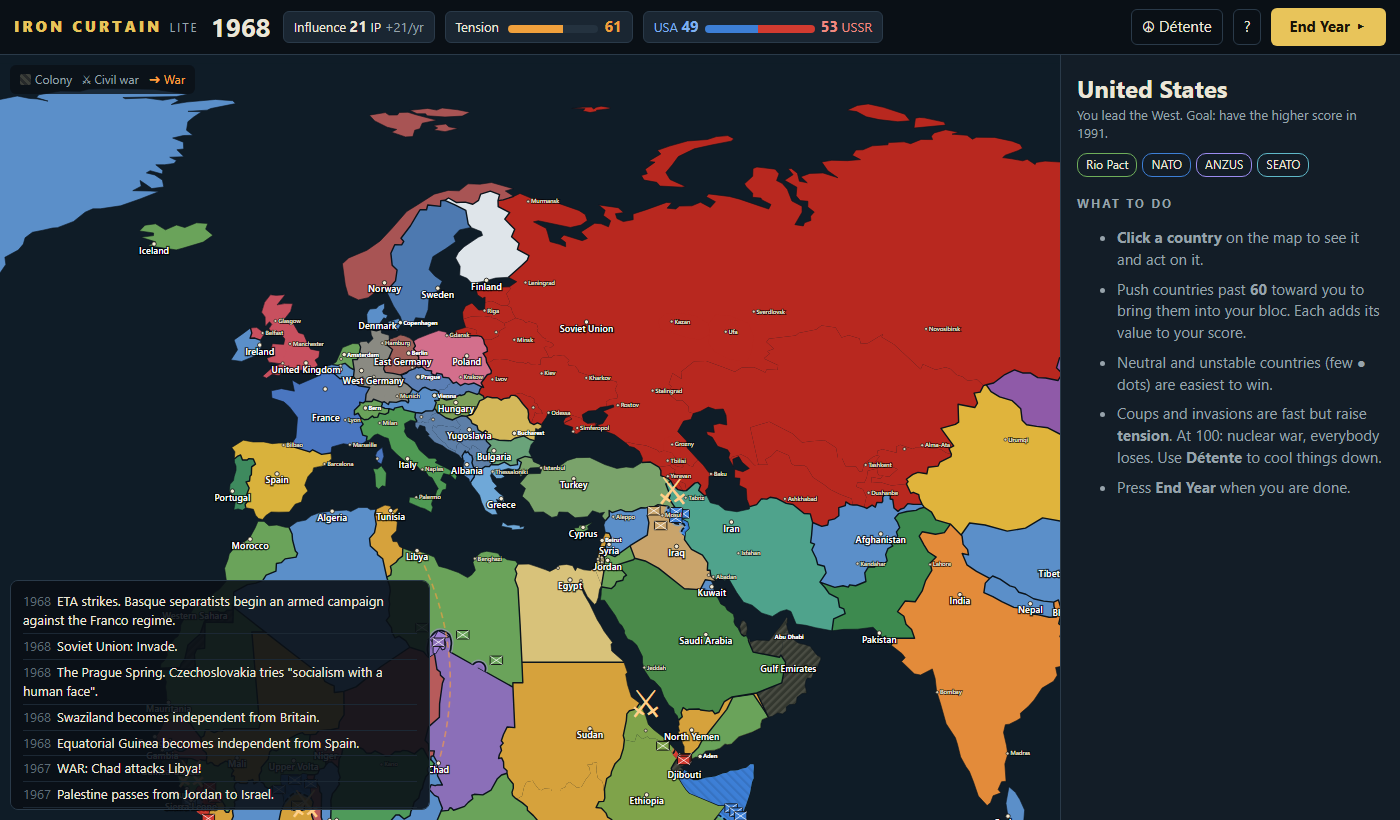
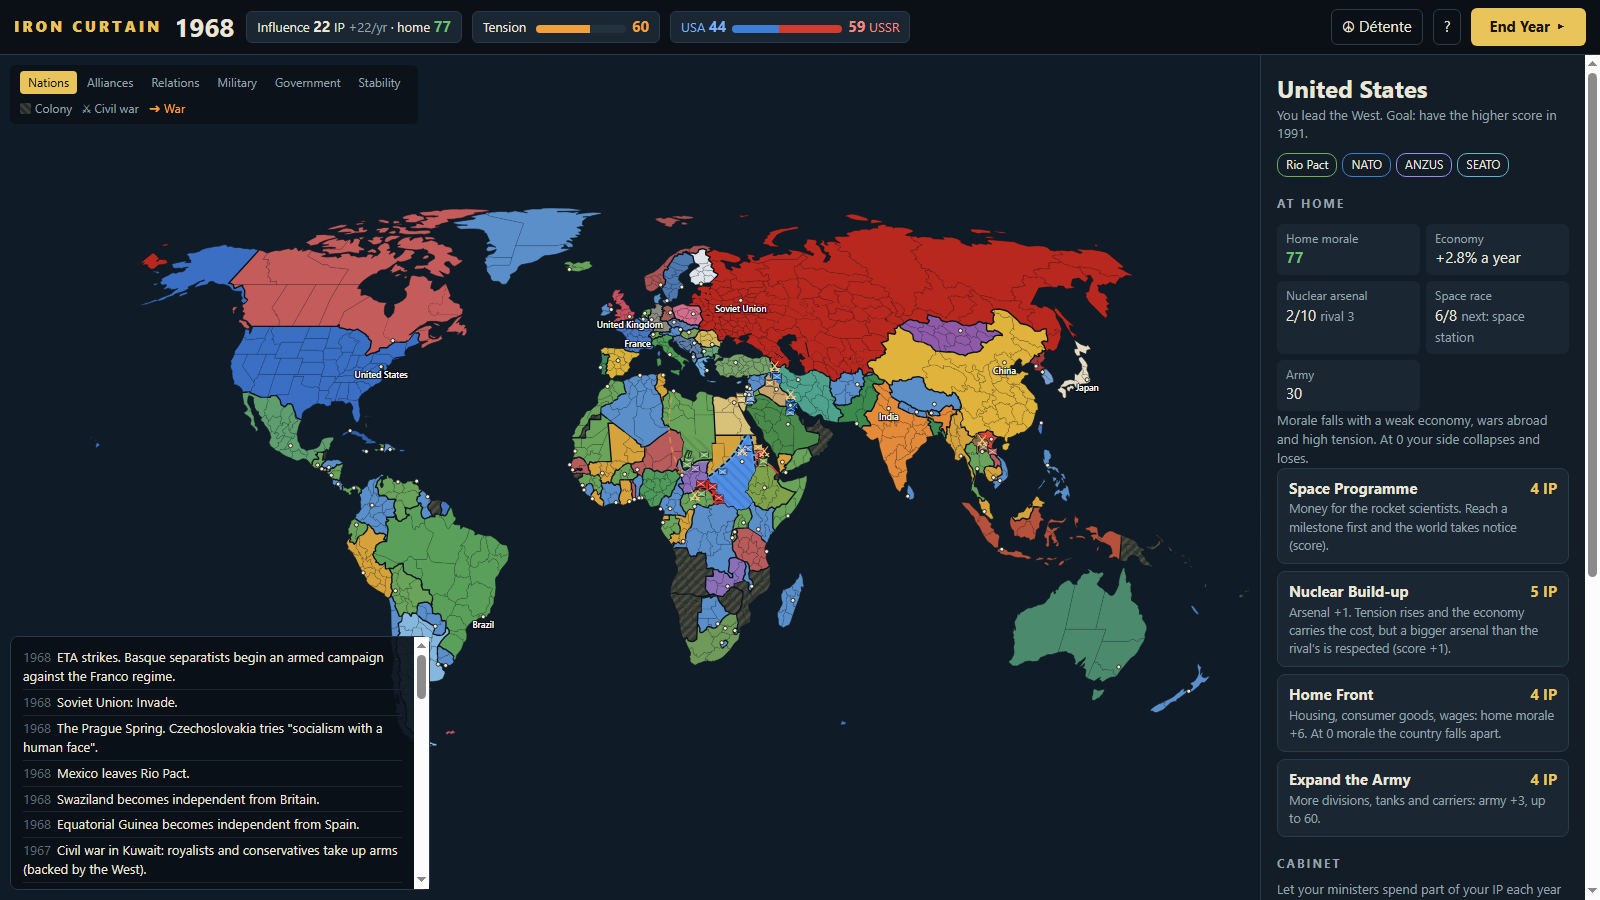
One game: Iron Curtain (no longer 'Lite'); README describes provinces, home front, map modes, causes, cabinet, unions, peace offers; new screenshot

diff --git a/ui.js b/ui.js
@@ -1,4 +1,4 @@
-// Iron Curtain Lite - the screen: map, side panel, pop-ups.
+// Iron Curtain - the screen: map, side panel, pop-ups.
 (function () {
   const D = window.DATA, GAME = window.GAME, NEIGHBOURS = window.NEIGHBOURS || {};
   const SAVE = 'iron-curtain-lite-3';
@@ -897,7 +897,7 @@
     const captives = D.COUNTRIES.filter(d => d.union && !d.indep);
     const regions = ['EU', 'ME', 'AS', 'AF', 'LA'];
     const lean = a => a >= 25 ? 'var(--us)' : a <= -25 ? 'var(--su)' : 'var(--neutral)';
-    modal(`<div class="kicker">1947 – 1991</div><h1>Iron Curtain Lite</h1>
+    modal(`<div class="kicker">1947 – 1991</div><h1>Iron Curtain</h1>
       <p>The Second World War is over and two superpowers divide the world. Lead one of them, or any nation caught in between.</p>
       <div class="sides">
         <button class="choice" data-side="US"><b style="color:#2f6bc4">Play the United States</b><span>Lead the West: democracy and dollars.</span></button>

diff --git a/index.html b/index.html
@@ -3,12 +3,12 @@
 <head>
 <meta charset="utf-8">
 <meta name="viewport" content="width=device-width, initial-scale=1">
-<title>Iron Curtain Lite</title>
+<title>Iron Curtain</title>
 <link rel="stylesheet" href="style.css">
 </head>
 <body>
 <header>
-  <div class="brand">IRON CURTAIN <span>LITE</span></div>
+  <div class="brand">IRON CURTAIN</div>
   <div class="year" id="year">1947</div>
   <div class="chip" id="ip" title="Influence Points: spend them on countries. You get more each year."></div>
   <div class="chip" id="tension" title="World tension. If it reaches 100, nuclear war ends the game for everyone."></div>

diff --git a/tools/clicktest.html b/tools/clicktest.html
@@ -9,7 +9,7 @@
 </head>
 <body>
 <header>
-  <div class="brand">IRON CURTAIN <span>LITE</span></div>
+  <div class="brand">IRON CURTAIN</div>
   <div class="year" id="year">1947</div>
   <div class="chip" id="ip" title="Influence Points: spend them on countries. You get more each year."></div>
   <div class="chip" id="tension" title="World tension. If it reaches 100, nuclear war ends the game for everyone."></div>

diff --git a/tools/test.html b/tools/test.html
@@ -8,7 +8,7 @@
 </head>
 <body>
 <header>
-  <div class="brand">IRON CURTAIN <span>LITE</span></div>
+  <div class="brand">IRON CURTAIN</div>
   <div class="year" id="year">1947</div>
   <div class="chip" id="ip" title="Influence Points: spend them on countries. You get more each year."></div>
   <div class="chip" id="tension" title="World tension. If it reaches 100, nuclear war ends the game for everyone."></div>

diff --git a/game.js b/game.js
@@ -1,4 +1,4 @@
-// Iron Curtain Lite - the rules of the game. No drawing here, so it also runs in Node for testing.
+// Iron Curtain - the rules of the game. No drawing here, so it also runs in Node for testing.
 //
 // Who plays: the player is either a superpower ('US' or 'SU') or any other nation ('ME').
 // A superpower wins by having more countries in its bloc than the rival in 1991.

diff --git a/README.md b/README.md
@@ -1,10 +1,10 @@
-# Iron Curtain Lite
+# Iron Curtain
 
-A small, free Cold War strategy game that runs in your browser. Lead the **United States**, the **Soviet Union** or any nation in between from 1947 to 1991, and come through the Cold War without starting a nuclear war. When the Cold War is judged at the end of 1991 you can keep playing into the new century.
+A free Cold War strategy game that runs in your browser. Lead the **United States**, the **Soviet Union** or any nation in between from 1947 to 1991, and come through the Cold War without starting a nuclear war. When the Cold War is judged at the end of 1991 you can keep playing into the new century.
 
 ### [▶ Play it in your browser](https://yelowwc.github.io/iron-curtain/)
 
-![Iron Curtain Lite in 1968](screenshot.png)
+![Iron Curtain in 1968](screenshot.png)
 
 ## Play
 **Online:** https://yelowwc.github.io/iron-curtain/
@@ -12,39 +12,43 @@ A small, free Cold War strategy game that runs in your browser. Lead the **Unite
 **Offline:** download or clone this repository and open `index.html` in any modern browser. No installation, no internet needed.
 
 ## How to play
-- **Choose who you lead:** the **United States**, the **Soviet Union**, or any of the 75 or so nations that are independent in 1947.
+- **Choose who you lead:** the **United States**, the **Soviet Union**, any of the 75 or so nations that are independent in 1947, or a nation still **inside a union** (Ukraine, the Baltic states, Scotland, Catalonia, Quebec...): build a national movement, arm a secret militia and choose the moment to declare independence. Rise too early and the centre crushes you.
 - **Regions and unions:** the Soviet Union is made of its republics (Ukraine, the Baltic states, Georgia, Kazakhstan...), Yugoslavia and Czechoslovakia of theirs, and many countries hold regions that want more say: Scotland, Northern Ireland, Catalonia, the Basque Country, Quebec, Kurdistan, Eritrea, East Pakistan, Tibet... Regions can rise up and win their freedom, and unions can break apart (if the Soviet Union is weak at the end, it is dissolved and Russia remains).
 - **Divided nations:** East and West Germany, North and South Vietnam, North and South Yemen and others can unite, through history or when both halves think alike.
 - **Each year** you get Influence Points (IP). Click a country on the map and spend them, then press **End Year** (or Enter).
 - **The map:** scroll to zoom and drag to move. Click a country to select all of it, including land it has annexed; double-click to select just one region and zoom onto it. Esc clears the selection.
 - **As a superpower**, push countries past 60 toward you to bring them into your bloc. When 1991 ends, the bigger bloc wins. **Propaganda** (1 IP), **Economic Aid** (3 IP) and **Back a Coup** (5 IP) pull countries your way.
+- **At home** (superpowers): the **space race** (be first to the satellite, man in orbit, the Moon...), the **arms race**, **home morale** and the **economy**. Soviet growth slows over the decades; wars abroad and a weak economy wear morale down, and at 0 your side collapses. Programmes: Space Programme, Nuclear Build-up, Home Front, Expand the Army.
+- **Cabinet:** let your ministers spend part of your IP each year (choose how much and what to focus on).
 - **As a nation**, you get decisions of your own: Nehru's choice for India, the Suez Canal for Egypt, Nagy's choice for Hungary, Solidarity for Poland, the Bomb, the oil embargo, the debt crisis, joining the EU... Run your country: stabilise it, develop the economy, build the army, choose your foreign policy (West, East or non-aligned), join or leave alliances, make friends, and maybe invade a neighbour. If you are overthrown or conquered, the game is over.
 - **Governments and parties:** every country has a government and five parties (Communists, Socialists, Liberals, Conservatives, Nationalists). Democracies hold elections; in dictatorships a strong opposition may rise up. Governments also change by themselves: kings fall, generals seize power, dictatorships return to democracy. Back a party with **+**, and in your own country hand power to a party with **⚑**.
 - **Armies and wars:** every country has an army. **Invade** to attack. Take the enemy capital to weaken them. If the attacker wins, it installs a friendly government. Real wars happen too: the Arab–Israeli wars, India–Pakistan, Iran–Iraq, the Falklands...
 - **War maps:** occupied land is drawn in the occupier's colour behind a solid front line. Each year the front rolls forward or back, arrows show where the offensives went, and both armies stand in facing lines along the front.
 - **Peace:** in your own war, tick the terms you want (reparations, disarm them, a friendly government, annexation) and see if the enemy would sign. Win a war and you dictate the peace at a conference.
-- **Borders change:** when a war ends in a truce, the ceasefire line becomes the new border. The loser may come back years later to win it back.
+- **Provinces:** the world is split into about 900 real provinces. When land changes hands (a truce, a peace treaty, a clear win next door) it goes as one compact block of border provinces: never the capital, never cutting the loser in two, at most a third of it. The loser may come back years later to win it back.
+- **Peace offers:** in your own war the other side writes to you: concessions when it is losing, demands when it is winning.
 - **Occupied lands:** every country you annex and every piece of land you take is a territory with unrest and integration. Choose a policy (garrison, integrate, exploit, autonomy), invest, crack down, or release it. Too much unrest and it rises up; full integration makes it yours for good.
 - **Form a nation:** unite with your neighbours into Germany, Korea, Gran Colombia, the Maghreb Union and more. Every member must be a close friend, defeated by you, or already yours. Annexed lands can rebel and break free.
 - **Alliances:** NATO, the Warsaw Pact, SEATO, CENTO, ANZUS, the Rio Pact and later the European Union defend their members when they are attacked.
-- **Civil wars** (⚔): arm a side or send troops. The rebels' territory is shown on the map.
+- **Civil wars** (⚔): rebels fight for a cause (communists, socialist revolutionaries, democrats, royalists, nationalist officers) and build their own kind of state if they win. Arm a side or send troops. The rebels' territory is shown on the map in the cause's colour.
 - **Tension** rises with coups, invasions and crises. At 100 it is nuclear war and everyone loses. **Détente** (3 IP) lowers it.
 - Real history happens along the way: over 110 historical events from 1947 to 2022 (the Berlin Blockade, the Cuban Missile Crisis, Vietnam, the fall of the Wall, the end of the Soviet Union, the wars in Yugoslavia, 9/11, the Arab Spring, Crimea...), but only when the world in your game still fits them. As a superpower you sometimes decide what to do.
 - **After 1991:** the game tells you how you did in the Cold War, then you can play on as long as you like and press **End game** when you are done.
-- **The map** shows capitals, and towns once you zoom in.
+- **The map** shows capitals, and towns once you zoom in. **Map modes** (keys 1-6, or M): Nations, Alliances, Relations, Military, Government, Stability.
 - **Saving:** the game saves itself in your browser after every move, so you can close the tab and carry on later.
 
 ## Files
 - `game.js`: the rules (also runs in Node: `node tools/balance.js` plays computer against computer, `node tools/nation.js` plays some nations, `node tools/history.js` plays on to 2030 and counts how often history repeats itself)
 - `data.js`: countries and regions (with hand-drawn shapes for lands the modern map lacks, like East Germany and South Vietnam), cities, alliances, divided nations and historical events
 - `neighbours.js`: which countries border each other (made by `node tools/build-neighbours.js`)
+- `provinces.js`, `lib/provinces.js`: the provinces (names, neighbours, shapes), made by `sh tools/build_provinces.sh` from Natural Earth admin-1 data (needs Python with shapely, and `npm install topojson-server topojson-simplify topojson-client` in `tools/`)
 - `ui.js`, `style.css`, `index.html`: the screen
 - `tools/clicktest.html`: clicks through the real game screen like a player (start screen, your nation, regions, an uprising, saving, a peace conference, a decision, the 1991 verdict, End game) and prints a pass/fail report
 - `tools/test.html`: opens a game and plays it automatically, e.g. `tools/test.html#US,10` (10 years as the USA) or `tools/test.html#US,20,EGY,still,v=45:26:2.6` (20 years, select Egypt, no animation, view centred on 45°E 26°N at zoom 2.6)
 - `lib/`: d3, topojson-client and the world map (see Credits)
 
 ## Credits
-- Map data: [Natural Earth](https://www.naturalearthdata.com/) (public domain) via [world-atlas](https://github.com/topojson/world-atlas) (ISC)
+- Map data: [Natural Earth](https://www.naturalearthdata.com/) (public domain): countries via [world-atlas](https://github.com/topojson/world-atlas) (ISC), provinces from the 1:10m admin-1 states and provinces
 - [d3](https://d3js.org/) (ISC) and [topojson-client](https://github.com/topojson/topojson-client) (ISC)
 
 ## License
